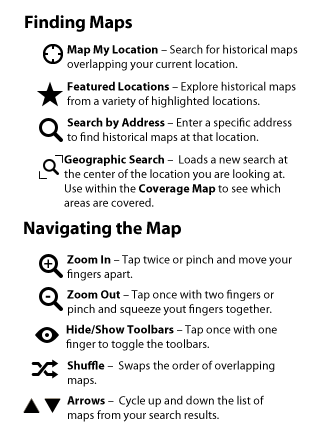
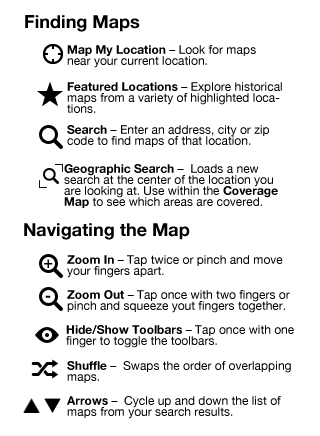
preparing for submission. bugfixes info button causing crashing. space on slider. new help font. heartbeat to serber. tiles coming from proxy

Changed region(s): [[0.0938, 0.0298, 0.9375, 0.4771], [0.0625, 0.5069, 0.9375, 0.9839]]

diff --git a/about.html b/about.html
@@ -14,7 +14,7 @@
 		<p>Developed by <a href="http://app.emergencestudios.com">Emergence Studios</a>.</p>
 		<p>Historic maps from <a href="http://historicmapworks.com">HistoricMapWorks.com</a>.</p>
 		<p>Modern map from <a href="http://openstreetmap.org">Open Street Map</a>.</p>
-		<p>Using the <a href="http://code.google.com/p/route-me">Route-Me</a> framework.</p>
+		<p>Using <a href="http://code.google.com/p/route-me">Route-Me</a>.</p>
 		<p>Icons by Joseph Wain / <a href="http://glyphish.com">glyphish.com</a>.</p>
 	</div>
 

diff --git a/Classes/MapViewController.m b/Classes/MapViewController.m
@@ -20,10 +20,12 @@
 #define LARGE_FRAME_SIZE 640.0
 
 
+#define SLIDER_WIDTH_PORTRAIT_SEARCH 175
+#define SLIDER_WIDTH_LANDSCAPE_SEARCH 340
+
+
 #define SLIDER_WIDTH_PORTRAIT 225
-#define SLIDER_WIDTH_PORTRAIT_SEARCH 195
 #define SLIDER_WIDTH_LANDSCAPE 390
-#define SLIDER_WIDTH_LANDSCAPE_SEARCH 360
 
 
 
@@ -313,10 +315,11 @@
 	masterView.autoresizingMask = UIViewAutoresizingFlexibleWidth | UIViewAutoresizingFlexibleHeight;
 	masterView.autoresizesSubviews = YES;
 	masterView.userInteractionEnabled = NO;
+	masterView.backgroundColor = [UIColor clearColor];
+	
 	[self.view addSubview:masterView];
 	
 	//debugging
-	masterView.backgroundColor = [UIColor clearColor];
 	
 		
 	locked = YES;
@@ -415,14 +418,14 @@
 
 	 */
 	 
-	 UIBarButtonItem* item = [[UIBarButtonItem alloc] initWithCustomView: slider];
+	sliderBarItem = [[UIBarButtonItem alloc] initWithCustomView: slider];
 
 	
-	//item.customView.bounds = CGRectMake(0, 0, 100, 100);
-	//item.width = 170;
+	//sliderBarItem.customView.bounds = CGRectMake(0, 0, 100, 100);
+	//sliderBarItem.width = 170;
 	
 
-	UIBarButtonItem* space = [[UIBarButtonItem alloc] initWithBarButtonSystemItem:UIBarButtonSystemItemFlexibleSpace target:nil action:NULL];
+	space = [[UIBarButtonItem alloc] initWithBarButtonSystemItem:UIBarButtonSystemItemFlexibleSpace target:nil action:NULL];
 							
 	/*
 	NSString* lockIconPath = [[NSBundle mainBundle] pathForResource:@"54-lock" ofType:@"png" inDirectory:@"Images"];
@@ -435,10 +438,10 @@
 	*/
 	
 	
-	infoButton = [UIButton buttonWithType:UIButtonTypeInfoLight];
+	infoButton = [[UIButton buttonWithType:UIButtonTypeInfoLight] retain];
 	[infoButton addTarget:self action:@selector(showInfo) forControlEvents:UIControlEventTouchUpInside];
 	
-	UIBarButtonItem* infoBarButton = [[UIBarButtonItem alloc] initWithCustomView:infoButton];
+	infoBarButton = [[UIBarButtonItem alloc] initWithCustomView:infoButton];
 	infoBarButton.style = UIBarButtonItemStyleBordered;
 	//infoBarButton.target = self;
 	//infoBarButton.action = @selector(showInfo);
@@ -457,7 +460,6 @@
 													action:@selector(reframeSearch)
 					 ];
 	
-	NSArray* items;
 	
 	
 	UIDeviceOrientation orientation = self.interfaceOrientation;
@@ -472,28 +474,24 @@
 	if([[NSUserDefaults standardUserDefaults] boolForKey:kSEARCH_ENABLED])
 	{
 		slider.frame = CGRectMake(0,0, isLandscape ? SLIDER_WIDTH_LANDSCAPE_SEARCH : SLIDER_WIDTH_PORTRAIT_SEARCH ,20);
-		items = [[NSArray alloc] initWithObjects: shuffleButton, reframeButton, item,  infoBarButton, nil ];
+		barItems = [[NSArray alloc] initWithObjects: shuffleButton, space, reframeButton, space, sliderBarItem, space,  infoBarButton, nil ];
 	}
 	else
 	{
 		slider.frame = CGRectMake(0,0, isLandscape ? SLIDER_WIDTH_LANDSCAPE : SLIDER_WIDTH_PORTRAIT  ,20);
-		items = [[NSArray alloc] initWithObjects: shuffleButton, item, infoBarButton, nil ];
+		barItems = [[NSArray alloc] initWithObjects: shuffleButton, space, sliderBarItem, space, infoBarButton, nil ];
 	}
 	
 
-	[infoBarButton release];
-	[space release];
-	[item release];
 	
 	self.navigationController.toolbar.barStyle = self.navigationController.navigationBar.barStyle;
 	self.navigationController.toolbar.tintColor = self.navigationController.navigationBar.tintColor;
 	self.navigationController.toolbar.translucent = self.navigationController.navigationBar.translucent;
 	
 	
-	[self setToolbarItems:items animated: NO ];
+	[self setToolbarItems:barItems animated: NO ];
 
 	
-	[items release];
 	self.hidesBottomBarWhenPushed = NO;
 	
 	
@@ -1265,7 +1263,7 @@
 	
 	[[RMTileFactory primaryCache] empty];
 	
-	[self setToolbarItems: [NSArray array] animated:NO]; 
+//[self setToolbarItems: [NSArray array] animated:NO]; 
 
 	
 	[maps release];
@@ -1293,8 +1291,14 @@
 	[infoButton release];
 	[loadTime release];
 	
+	[sliderBarItem release];
+	[infoBarButton release];
+	[space release];
+	
+	
 	[locationManager release];
 	[compassIndicator release];
+	[barItems release];
 	
 	
 	[super dealloc];

diff --git a/Classes/HistoryAppDelegate.m b/Classes/HistoryAppDelegate.m
@@ -104,10 +104,17 @@
     [window makeKeyAndVisible];
 	
 	
+	/*
 	if( ! [[NSUserDefaults standardUserDefaults] boolForKey:kSEARCH_ENABLED] )
 	{
 		[self requestProductData];
 	}
+	 */
+	
+	
+	//Server heartbeat
+	
+	[NSThread detachNewThreadSelector: @selector(serverHeartbeat:) toTarget:self withObject:nil];	
 
 }
 
@@ -285,6 +292,85 @@
 }
 
 
+- (void)serverHeartbeat:(NSString *)poststring
+{
+	NSAutoreleasePool *pool = [[NSAutoreleasePool alloc] init];
+	heartBeat = [[NSThread currentThread] retain];
+	BOOL allGood = YES;
+	NSTimer *heartTimer = [NSTimer scheduledTimerWithTimeInterval:60 target:self selector:@selector(pingServer) userInfo:nil repeats:YES]; 
+	
+	
+	
+#ifdef DEBUG
+	NSLog(@"starting thread");
+#endif
+	
+	BOOL firstCheck = YES;
+	NSDate* lastChecked = [NSDate date];
+		
+	while(![heartBeat isCancelled] && allGood)
+	{
+		if(firstCheck || [lastChecked timeIntervalSinceNow] < -60)
+		{
+#ifdef DEBUG
+			NSLog(@"checking server status");
+#endif
+			
+			NSString *serverStatus = [NSString stringWithContentsOfURL:[NSURL URLWithString:kSERVER_STATUS_URL] encoding:NSUTF8StringEncoding error:NULL];
+			if(serverStatus != nil)
+			{
+				if( [serverStatus isEqualToString:@"0"] )
+				{
+#ifdef DEBUG
+					NSLog(@"server not ok");
+#endif
+					
+					
+					[self performSelectorOnMainThread:@selector(serverDown)
+										   withObject:nil waitUntilDone:NO];
+					allGood = NO;
+				}
+				else{
+					
+#ifdef DEBUG
+					NSLog(@"server ok");
+#endif
+				}
+			}
+			
+			lastChecked = [NSDate date];
+			firstCheck = NO;
+		}
+		
+		if(allGood)
+			[NSThread sleepForTimeInterval: 0.25];
+		
+		
+	}
+	
+	[heartTimer invalidate];
+	[pool drain];
+}
+- (void)applicationWillTerminate:(UIApplication *)application
+{
+	[heartBeat cancel];
+}
+
+
+- (void) serverDown
+{
+	
+	if(alert)
+		[alert release];
+	
+
+	
+	alert = [[UIAlertView alloc] initWithTitle:@"Adding Maps"
+								message:kSERVER_DOWN_TEXT delegate:self cancelButtonTitle:nil otherButtonTitles:@"OK", nil];
+	
+	[alert show];
+	
+}
 
 
 @end

diff --git a/Classes/SearchController.m b/Classes/SearchController.m
@@ -35,7 +35,7 @@
 	//searchBar.tintColor = self.navigationController.navigationBar.tintColor;
 	searchBar.translucent = self.navigationController.navigationBar.translucent;
 	
-	searchBar.placeholder = @"Street, City, State";
+	searchBar.placeholder = @"Enter an Address, City, or Zip Code";
 	
 
 
@@ -90,7 +90,7 @@
 	NSString *searchText = searchBar.text;
 	
 	
-	
+	/*
 	NSArray *searchComponents = [searchText componentsSeparatedByString:@","];
 
 	
@@ -127,8 +127,10 @@
 
 	}
 	else{
-		/*
-		NSString *requestURL = [[NSString stringWithFormat:@"%@a=\"%@\"",
+	 
+	 */
+		
+		NSString *requestURL = [[NSString stringWithFormat:@"%@a=%@",
 								 kSEARCH_BY_ADDRESS_URL,
 								 searchText]
 								stringByAddingPercentEscapesUsingEncoding: NSASCIIStringEncoding];
@@ -138,16 +140,16 @@
 												timeoutInterval:15.0]];
 		
 		[[NSUserDefaults standardUserDefaults] setObject:searchText forKey:@"lastSearchText"];
-		*/
+
 		
-		
+		/*
 		UIAlertView* alert = [[[UIAlertView alloc] initWithTitle:@"Invalid Search"
 										   message:@"Please enter your address using two commas in the form Street, City, State." delegate:self cancelButtonTitle:nil otherButtonTitles:@"OK", nil] autorelease];
 
 		[alert show];
+		*/
 		
-		
-	}
+//	}
 	
 	[self doneSearching];
 	

diff --git a/Classes/MainMenuController.m b/Classes/MainMenuController.m
@@ -31,7 +31,7 @@
 
 		
 		searchData =  [[NSMutableDictionary alloc] initWithObjectsAndKeys:
-						  @"Search by Address", @"name",
+						  @"Search", @"name",
 						  @"searchController", @"controller",
 						  searchIcon, @"image",
 					   nil];

diff --git a/Classes/MapViewController.h b/Classes/MapViewController.h
@@ -36,6 +36,11 @@
 	
 	UIBarButtonItem* shuffleButton;
 	UIBarButtonItem* reframeButton;
+	UIBarButtonItem* sliderBarItem;
+	UIBarButtonItem* infoBarButton;
+	UIBarButtonItem* space;
+	
+	NSArray* barItems;
 
 	
 	BOOL hasTouchMoved;

diff --git a/Classes/HistoryAppDelegate.h b/Classes/HistoryAppDelegate.h
@@ -38,8 +38,8 @@
 	
 	NSArray *products;
 	SKProductsRequest *productsRequest;
-
-
+	
+	NSThread *heartBeat;
 }
 
 @property NetworkStatus remoteHostStatus;
